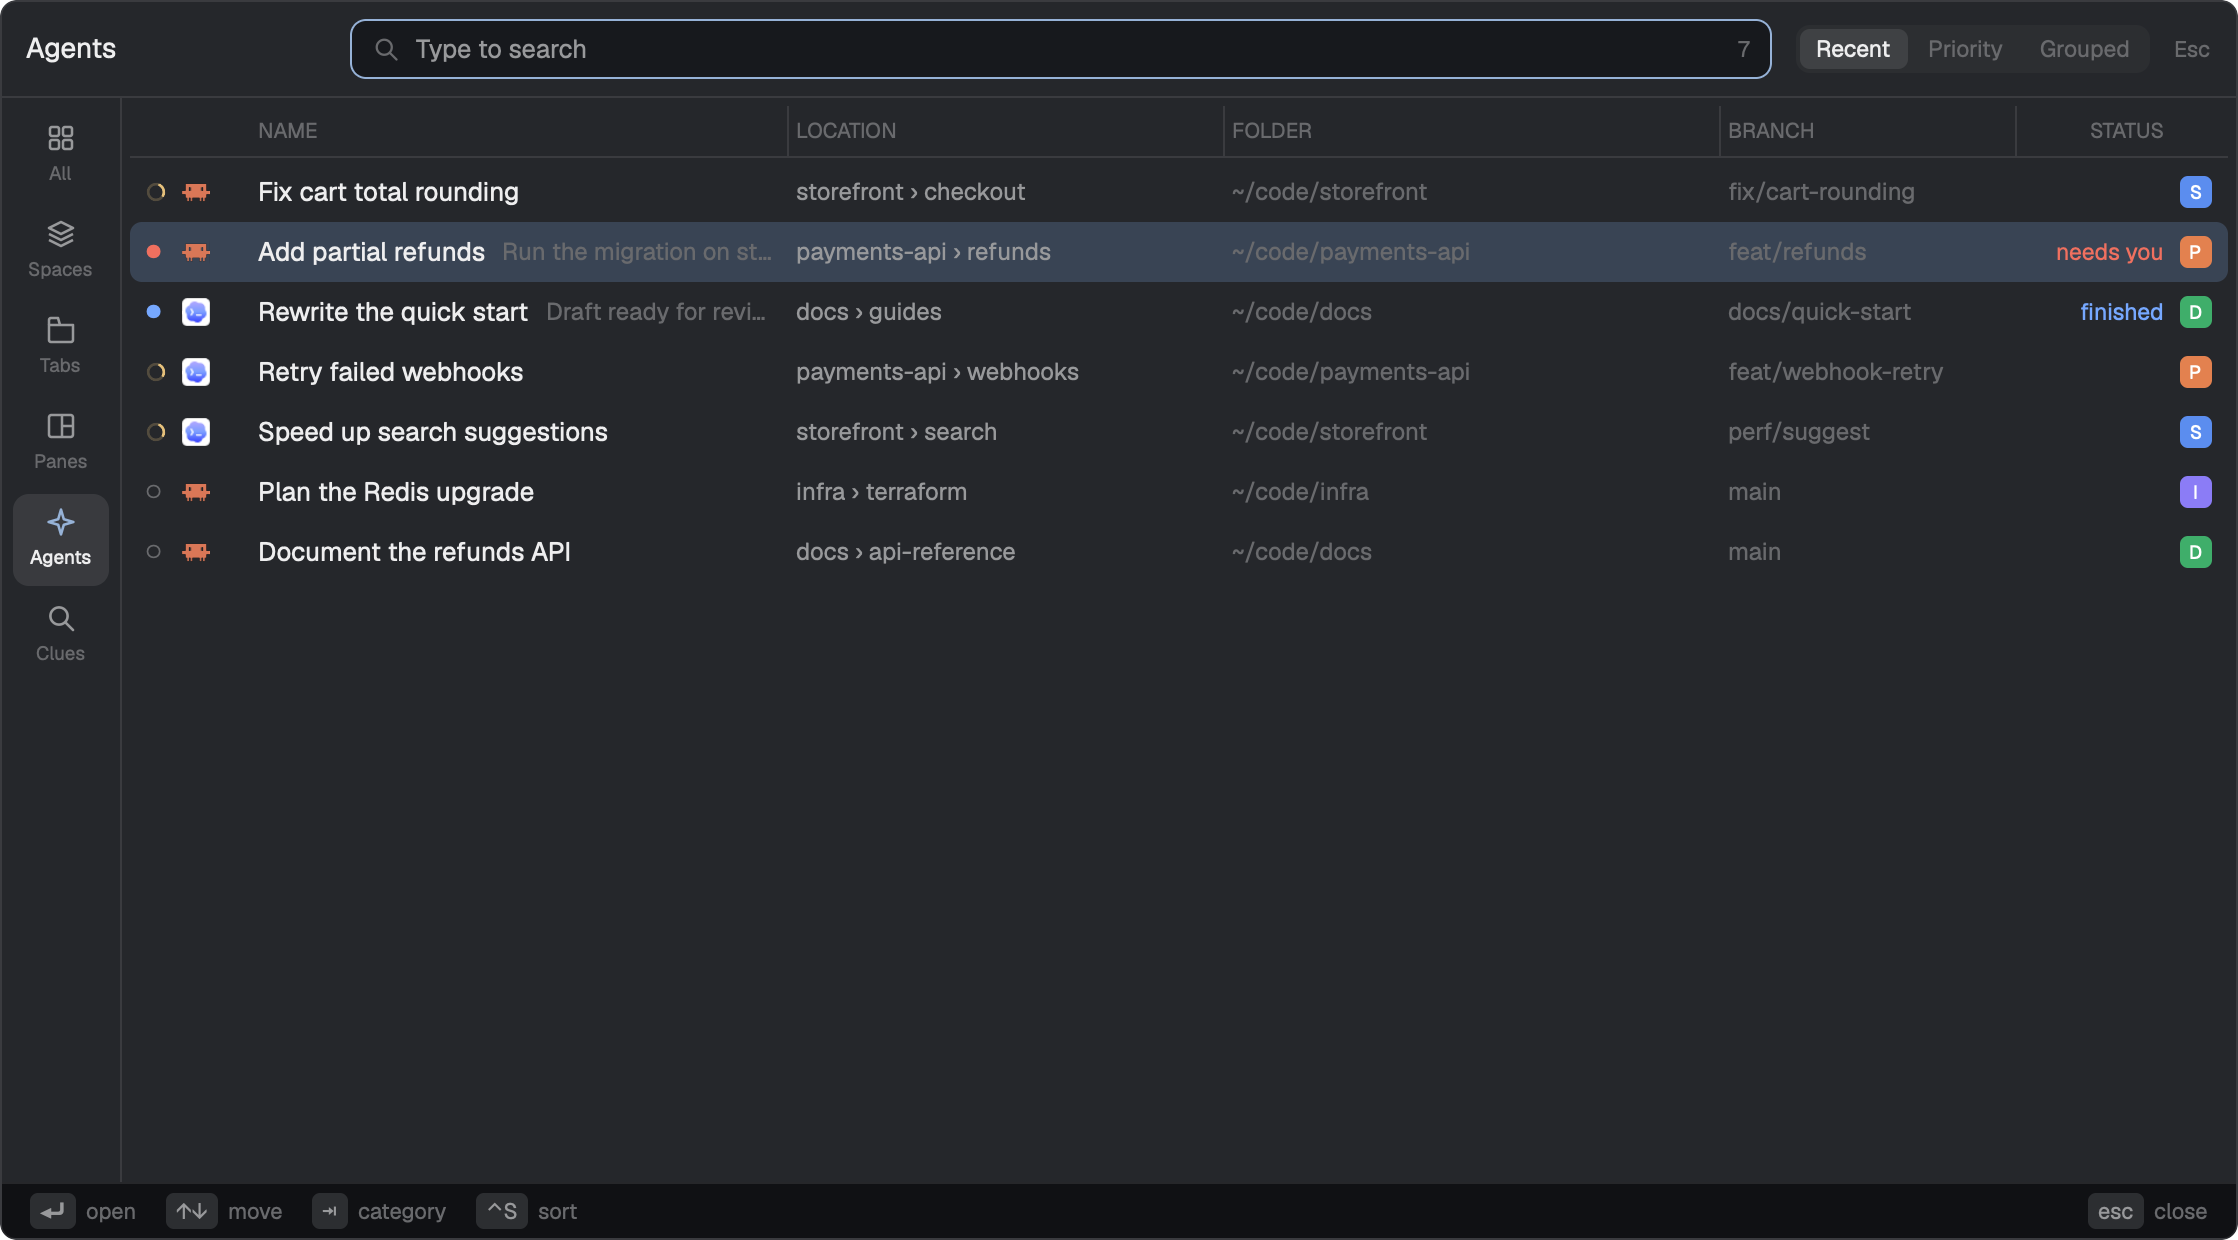
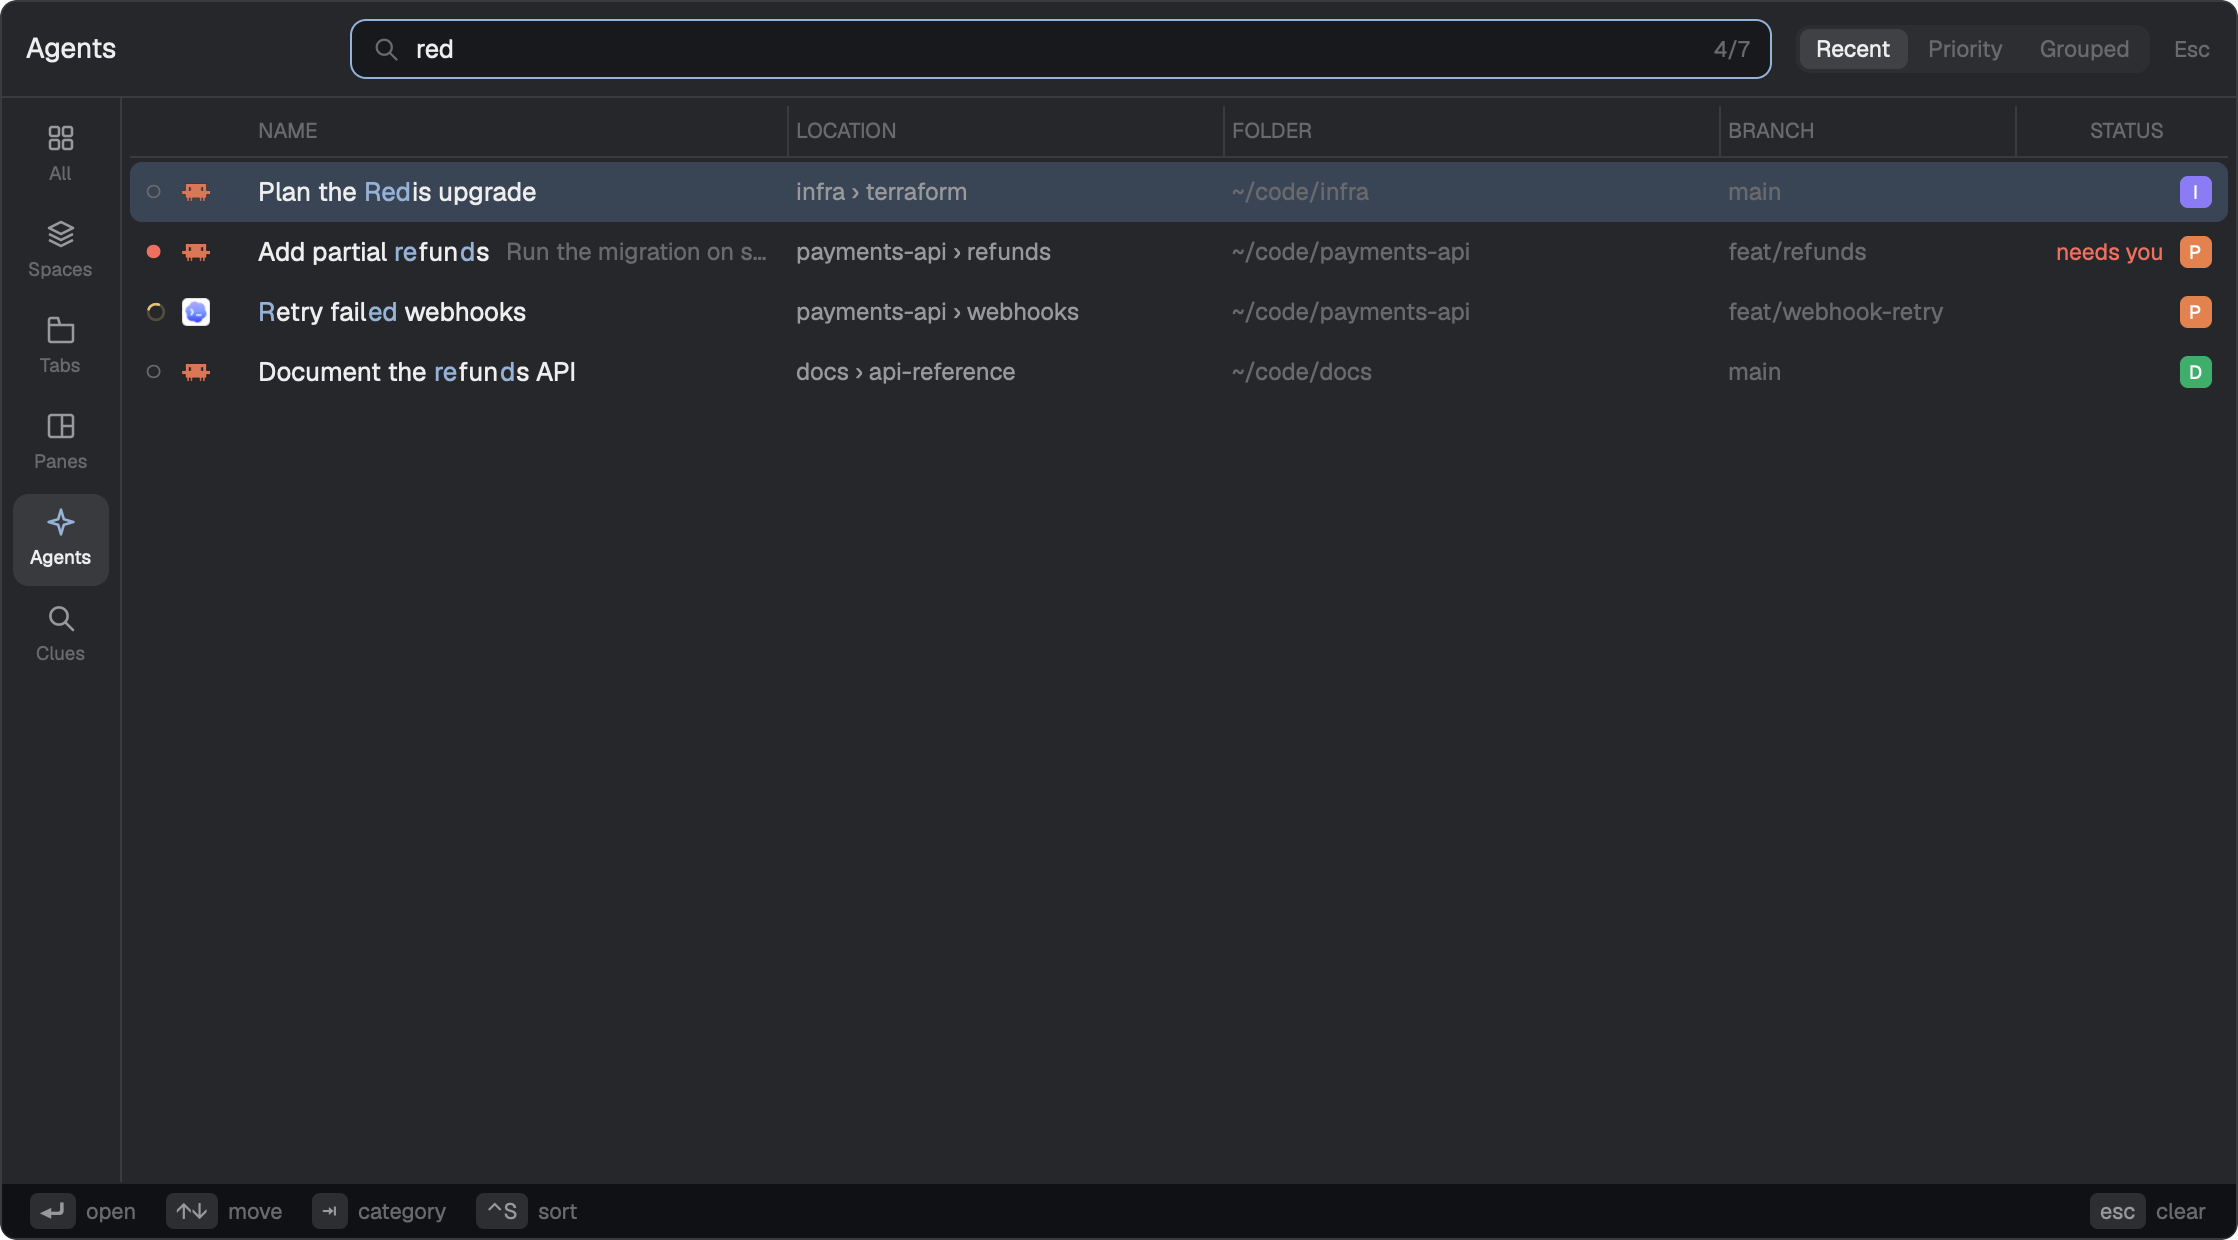
docs: show typing in preview.png
The preview now shows the Agents list with "red" typed, 4 of 7 rows
left: "Plan the Redis upgrade" matches unbroken and leads, then three
rows that match only by scattered letters (refunds, failed), each with
its letters highlighted. That shows the fuzzy match and the two tiers
in one picture. The README captions say so. RECIPE's caption is just
"Recall" and stays as it is.

Claude-Session: https://claude.ai/code/session_01NXAAtjXp1qrxHasVFj6xmv

diff --git a/README.zh-TW.md b/README.zh-TW.md
@@ -18,7 +18,7 @@
 
 [Herdr](https://herdr.dev/) app 的 recent + fuzzy 切換器，承襲 IntelliJ「Recent」的做法。一個鍵列出你待過的每個 space、tab、pane 與 agent，最近的排最前面，並停在你上一個待過的位置：按 `⌘E` 再按 `⏎`，就回到剛剛待的地方。從沒去過的排在去過的後面，等你處理的排最前（依序是 blocked、done、working、idle）。打字會以模糊比對縮小清單，接近的結果排前面，彼此之間仍維持最近的順序。
 
-![Recall 的 Agents 清單：等你處理的 agent 顯示「needs you」，完成的顯示「finished」](preview.png)
+![Recall 的 Agents 清單輸入「red」：「Plan the Redis upgrade」完整連續命中排最前，後面是只有零散字母對得上的列](preview.png)
 
 每一列都標出它在哪、所在資料夾、branch，以及那裡的 agent 是否在等你。打字即可模糊搜尋列上顯示的一切（名稱、位置、資料夾、branch、「needs you」或「finished」、遠端 space 的機器名稱），拖曳欄位邊緣可以調整寬度。
 

diff --git a/README.md b/README.md
@@ -18,7 +18,7 @@
 
 A recent + fuzzy switcher for the [Herdr](https://herdr.dev/) app, in the spirit of IntelliJ's "Recent". One key lists every space, tab, pane and agent you've been in, most recent first, and opens on the one you were in just before this one: press `⌘E`, then `⏎`, and you're back where you were a moment ago. Rows you have never been to follow the ones you have, those that need you first (blocked, then done, working, idle). Typing narrows the list by fuzzy match, close matches first, with the recent order kept within them.
 
-![Recall's Agents list: a blocked agent reads "needs you", a finished one "finished"](preview.png)
+![Recall's Agents list filtered by "red": "Plan the Redis upgrade" matches unbroken and comes first, then the rows that match only by scattered letters](preview.png)
 
 Each row shows where it lives, its folder, its branch and whether an agent there needs you. Type to fuzzy-search anything a row shows (its name, where it lives, folder, branch, "needs you" or "finished", a remote space's machine), and drag a column's edge to resize it.
 
